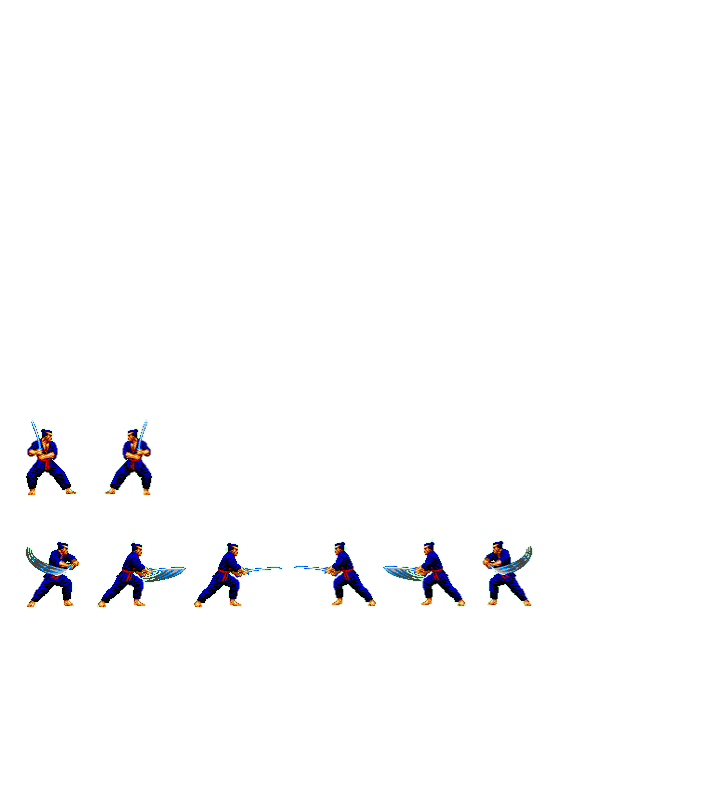
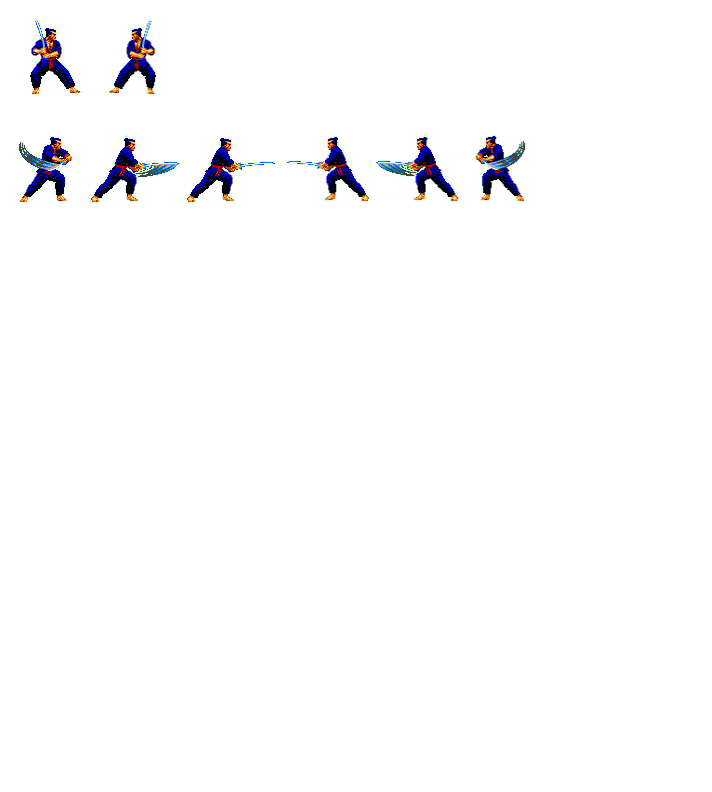
Working on Saber Animation

diff --git a/src/index.js b/src/index.js
@@ -45,6 +45,8 @@ function sound(src) {
   };
 }
 
+const samuraiSwordSprite = new Image();
+samuraiSwordSprite.src = "src/images/Samurai_sword.png";
 
 const samuraiSprite = new Image();
 samuraiSprite.src = "src/images/Samurai.png";
@@ -252,10 +254,11 @@ function addspecialArrow() {
 // frame counter and after a certain ammount of frames
 let marker = 0;
 let healthAdd = 0;
-let musicOn = true;
-let soundEffects = true;
+let musicOn = false;
+let soundEffects = false;
 let game = "ongoing";
 let left = false;
+let upgrade = false;
 
 
 function animate() {
@@ -341,7 +344,20 @@ function animate() {
 
   // ctx.fillText("HP", canvas.width/2 + 5, canvas.height/2 + 150);  
   currentHp();
-  drawSprite (
+  if (upgrade === true) {
+      drawSprite(
+      samuraiSwordSprite, 
+      samurai.width * samurai.frameX + 5, 
+      samurai.height * samurai.frameY + 15, 
+      samurai.width, 
+      samurai.height,
+      samurai.x + samurai.punchOffset, 
+      samurai.y, 
+      3*samurai.height, 
+      2*samurai.width
+      );
+  } else {
+    drawSprite (
       samuraiSprite, 
       samurai.width * samurai.frameX, 
       samurai.height * samurai.frameY, 
@@ -352,6 +368,8 @@ function animate() {
       3*samurai.height, 
       2*samurai.width
     );
+  }
+  
     for (let i = 0; i < arrows.length; i++) {
       const arrow = arrows[i];
       arrow.x += arrow.speed;
@@ -371,8 +389,12 @@ function animate() {
     
   
 
+  if (upgrade === true) {
+    saber();
+  } else {
+    punch();
+  }
   
-  punch();
   
   for (let i = 0; i < arrows.length; i++) {
     // console.log(arrows[i].x);
@@ -391,7 +413,7 @@ function animate() {
 
         let arrow = arrows.shift();
         if (arrow.status === "gold") {
-
+          upgrade = true;
         }
         if (soundEffects) {
           hitSound.play();
@@ -438,7 +460,7 @@ function animate() {
     ctx.fillStyle = "black";
     
     ctx.textAlign = "center";
-    ctx.font = "Bold 100px Press Start 2P";
+    ctx.font = "Press Start 2P";
   // ctx.fillText("Score", canvas.width/2, canvas.height/2 - 500);
     ctx.strokeText("Press Reset to Try Again", canvas.width/2, canvas.height - 50);
     ctx.fillText("Press Reset to Try Again", canvas.width/2, canvas.height - 50);
@@ -484,13 +506,16 @@ window.addEventListener("keyup", function(e) {
 
 
 // punching animation function
-const right1 = [0,1,0];
-const right2 = [1.15, 1, 50];
-const right3 = [2.17, 1, 50];
+let right1 = [0,1,0];
+let right2 = [1.15, 1, 50];
+let right3 = [2.17, 1, 50];
 
-const left1 = [5,1,0];
-const left2 = [3.98,1,0];
-const left3 = [3.05,1,0];
+let left1 = [5,1,0];
+let left2 = [3.98,1,0];
+let left3 = [3.05,1,0];
+
+
+
 
 
 function punch(){
@@ -504,8 +529,52 @@ function punch(){
       }
     
       
+  }
+  else if (keys[37] && samurai.currentAction != 37) {
+      if (soundEffects) {
+        missSound.play();
+
+      }
+    
+      samurai.currentAction = 37;
+      samurai.animationFrames = [left1, left1, left1, left2, left2, left2, left3,left3, left3];
+  } else {
+    const frame = samurai.animationFrames.pop(0);
+    if (frame) {
+      samurai.punchOffset = frame[2];
+      // console.log(frame);
+      samurai.frameX = frame[0];
+      samurai.frameY = frame[1];
+    } else {
+      samurai.frameX = 0;
+      samurai.frameY = 0;
+      samurai.punchOffset = 0;
+      samurai.currentAction = null;
       
-      
+    }
+  }
+  
+}
+
+//  right1 = [0,1.4,0];
+//  right2 = [2, 1.4, 50];
+//  right3 = [2.17, 1.4, 50];
+
+//  left1 = [5,1,0];
+//  left2 = [3.98,1,0];
+//  left3 = [3.05,1,0];
+
+
+function saber(){
+  
+  if (keys[39] && samurai.currentAction != 39) {
+      samurai.currentAction = 39;
+      samurai.animationFrames = [right1,right1,right1,right2,right2,right2,right3,right3,right3];
+      if (soundEffects) {
+        missSound.play();
+
+      }
+    
       
   }
   else if (keys[37] && samurai.currentAction != 37) {

diff --git a/index.html b/index.html
@@ -2,6 +2,7 @@
 <html lang="en">
   <head class="whole">
     <meta charset="UTF-8" />
+    <link rel="shortcut icon" href="">
     <meta name="viewport" content="width=device-width, initial-scale=1.0" />
     <meta http-equiv="X-UA-Compatible" content="ie=edge" />
     <link href='https://fonts.googleapis.com/css?family=Press Start 2P' rel='stylesheet'>
